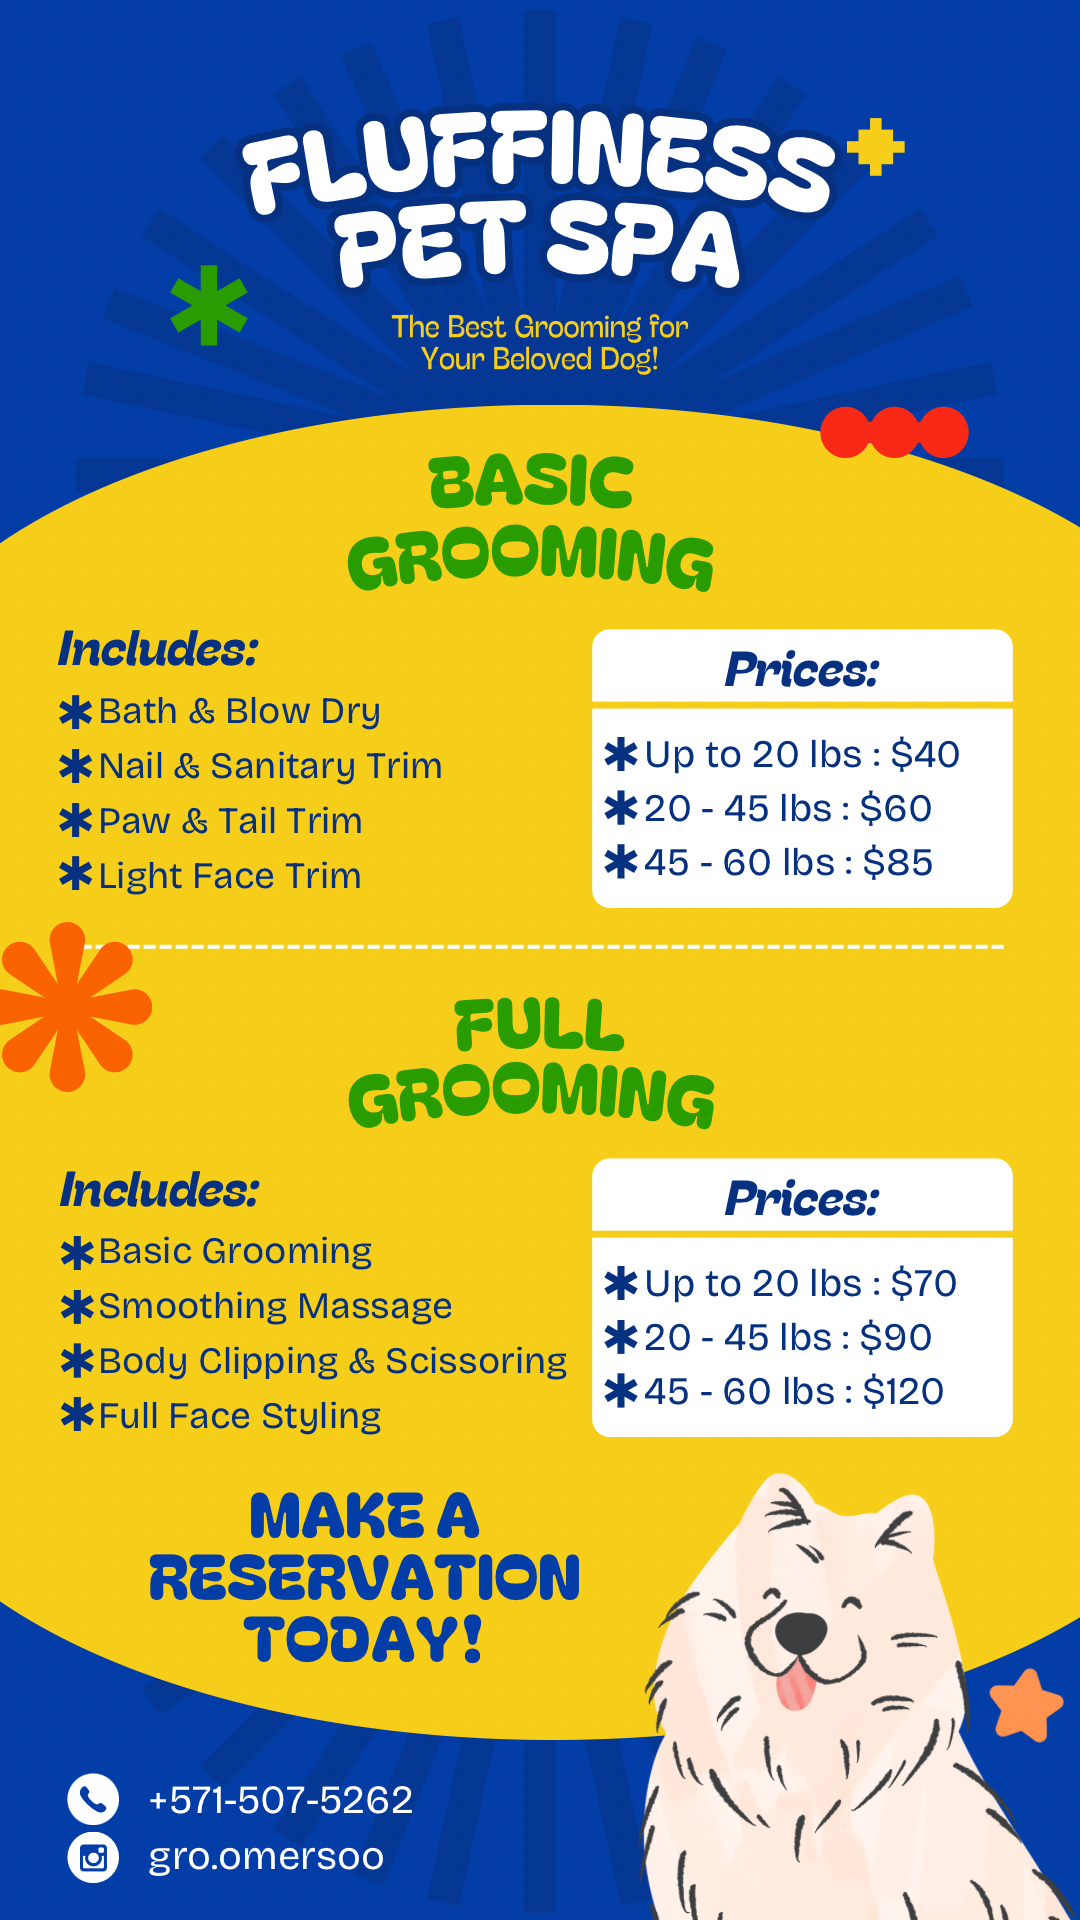
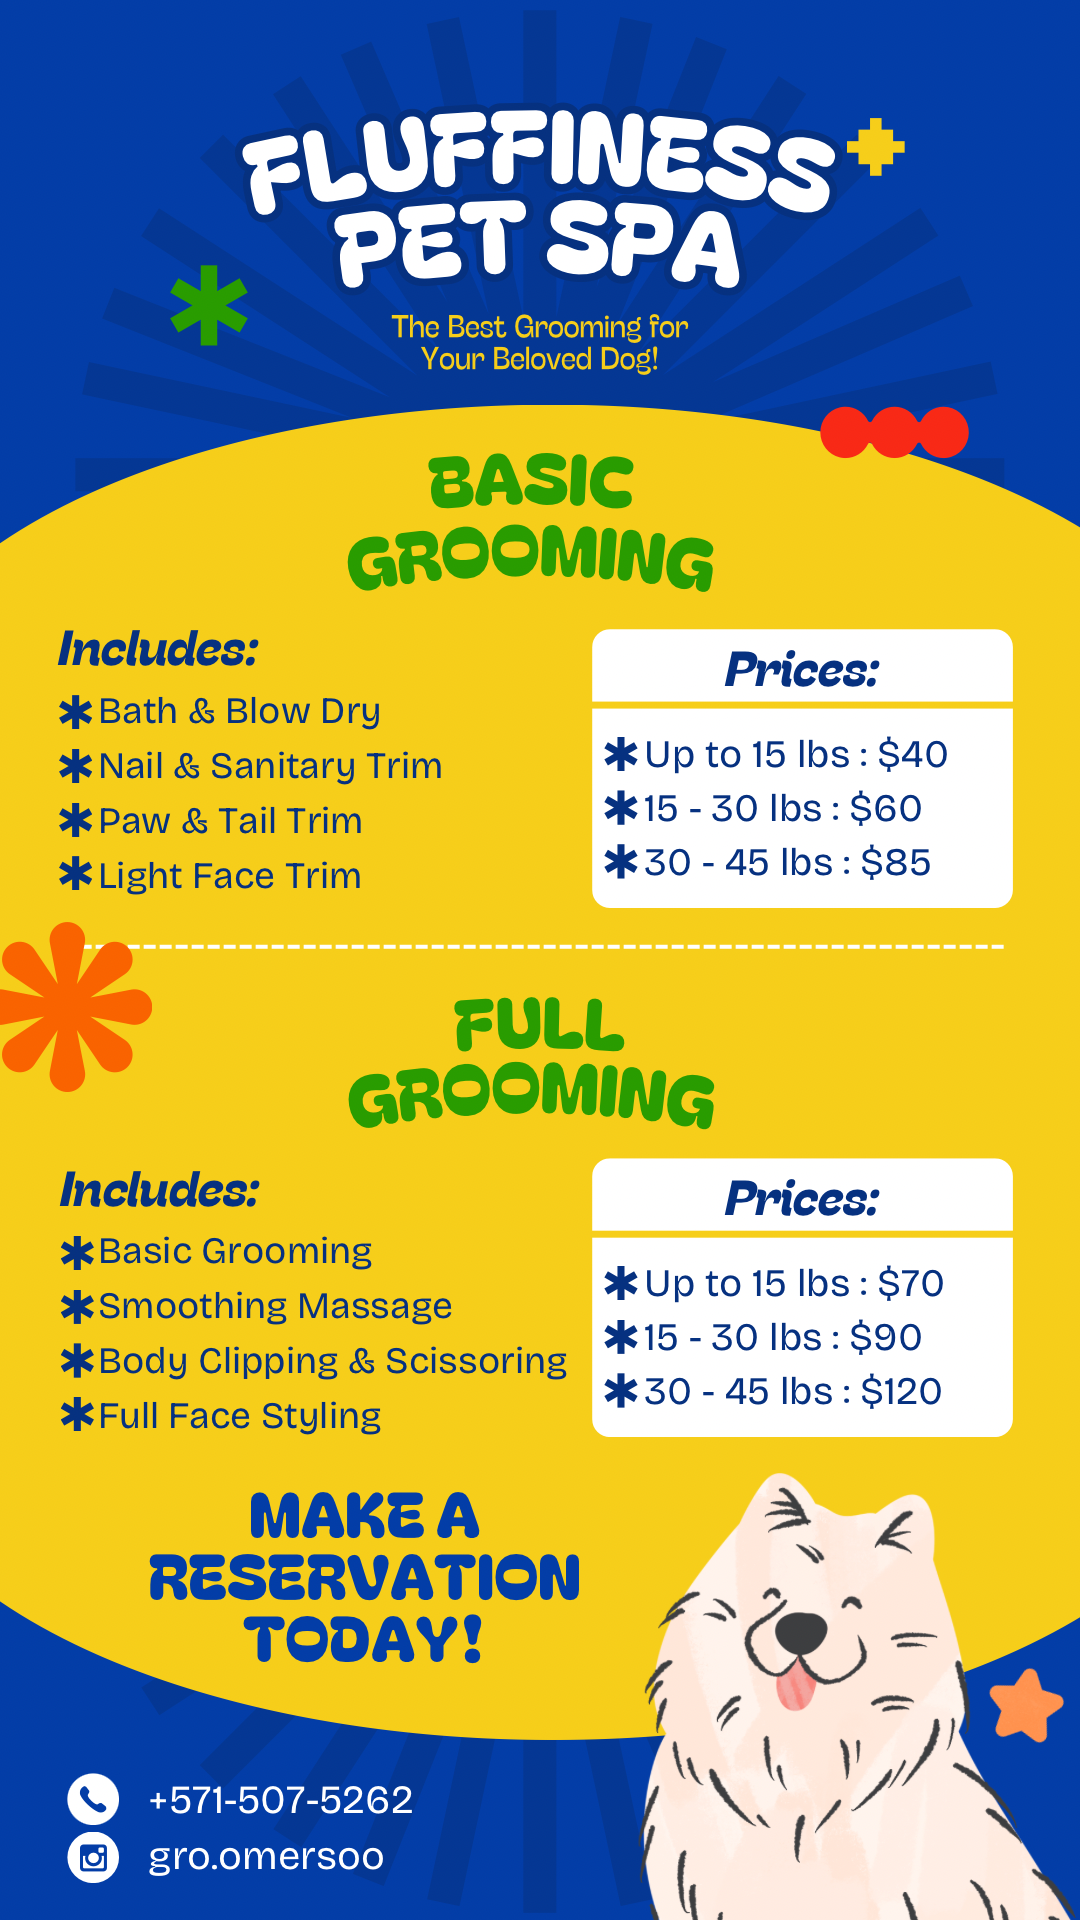
update

Changed region(s): [[0.5806, 0.6562, 0.8861, 0.75], [0.5806, 0.375, 0.8861, 0.4688]]

diff --git a/pricing/index.html b/pricing/index.html
@@ -8,17 +8,17 @@
 </head>
 <body>
     <div class="fullscreen-container">
-        <img src="../images/prices.png" alt="Fluffiness Pet Spa Prices" usemap="#price-map" class="responsive-image">
-        
-        <map name="price-map">
-            <!-- Phone number area (approximately where +571-507-5262 appears on the image) -->
-            <area shape="rect" coords="35,898,207,928" href="sms:+15715075262" alt="Text Us">
+        <div class="image-wrapper">
+            <img src="../images/prices.png" alt="Fluffiness Pet Spa Prices" class="responsive-image">
             
-            <!-- Instagram area (approximately where @gro.omersoo appears on the image) -->
-            <area shape="rect" coords="75,925,195,955" href="https://instagram.com/gro.omersoo" alt="Instagram">
-        </map>
+            <!-- Phone number overlay -->
+            <a href="sms:+15715075262" class="map-link phone" 
+               style="left: 20%; top: 84%; width: 60%; height: 5%;"></a>
+            
+            <!-- Instagram overlay -->
+            <a href="https://instagram.com/gro.omersoo" class="map-link instagram" 
+               style="left: 30%; top: 89%; width: 40%; height: 5%;"></a>
+        </div>
     </div>
-    
-    <script src="../js/imageMapResizer.js"></script>
 </body>
 </html>

diff --git a/index.html b/index.html
@@ -8,17 +8,17 @@
 </head>
 <body>
     <div class="fullscreen-container">
-        <img src="images/prices.png" alt="Fluffiness Pet Spa Prices" usemap="#price-map" class="responsive-image">
-        
-        <map name="price-map">
-            <!-- Phone number area (approximately where +571-507-5262 appears on the image) -->
-            <area shape="rect" coords="35,898,207,928" href="sms:+15715075262" alt="Text Us">
+        <div class="image-wrapper">
+            <img src="images/prices.png" alt="Fluffiness Pet Spa Prices" class="responsive-image">
             
-            <!-- Instagram area (approximately where @gro.omersoo appears on the image) -->
-            <area shape="rect" coords="75,925,195,955" href="https://instagram.com/gro.omersoo" alt="Instagram">
-        </map>
+            <!-- Phone number overlay -->
+            <a href="sms:+15715075262" class="map-link phone" 
+               style="left: 12.3%; top: 92.1%; width: 27%; height: 3%;"></a>
+            
+            <!-- Instagram overlay -->
+            <a href="https://instagram.com/gro.omersoo" class="map-link instagram" 
+               style="left: 12.3%; top: 95.5%; width: 27%; height: 3%;"></a>
+        </div>
     </div>
-    
-    <script src="js/imageMapResizer.js"></script>
 </body>
 </html>

diff --git a/css/styles.css b/css/styles.css
@@ -18,19 +18,48 @@ body {
 
 .fullscreen-container {
     position: relative;
-    height: 100%;
-    width: 100%;
+    height: 100vh;
+    width: 100vw;
     display: flex;
     justify-content: center;
     align-items: center;
+    background-color: #000; /* Backdrop for contain fit */
+}
+
+.image-wrapper {
+    position: relative;
+    display: inline-block;
+    max-height: 100%;
+    max-width: 100%;
 }
 
 .responsive-image {
-    max-height: 100%;
-    max-width: 100%;
+    display: block;
+    max-height: 100vh;
+    max-width: 100vw;
     width: auto;
     height: auto;
-    object-fit: contain;
+}
+
+.map-link {
+    position: absolute;
+    display: block;
+    /* Optional: make them semi-transparent so you can see the image behind */
+    opacity: 0; 
+    cursor: pointer;
+    transition: opacity 0.2s;
+}
+
+.map-link:hover {
+    opacity: 0.05;
+}
+
+.map-link.phone {
+    background-color: white;
+}
+
+.map-link.instagram {
+    background-color: white;
 }
 
 /* For image map responsiveness */

diff --git a/js/imageMapResizer.js b/js/imageMapResizer.js
@@ -20,8 +20,8 @@
             
             // Get the original dimensions of the image (assumed to be the dimensions 
             // at which the coordinates were originally specified)
-            const originalWidth = 540; // Based on the image dimensions (adjust if needed)
-            const originalHeight = 960; // Based on the image dimensions (adjust if needed)
+            const originalWidth = 1080; // Based on the actual image dimensions
+            const originalHeight = 1920; // Based on the actual image dimensions
             
             // Calculate scaling factors
             const widthRatio = currentWidth / originalWidth;
